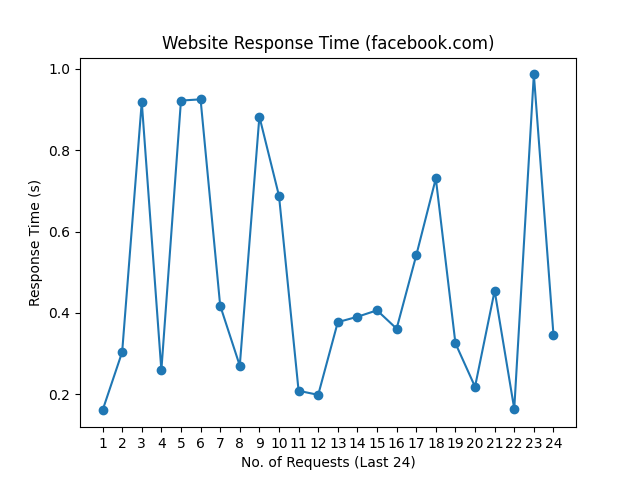
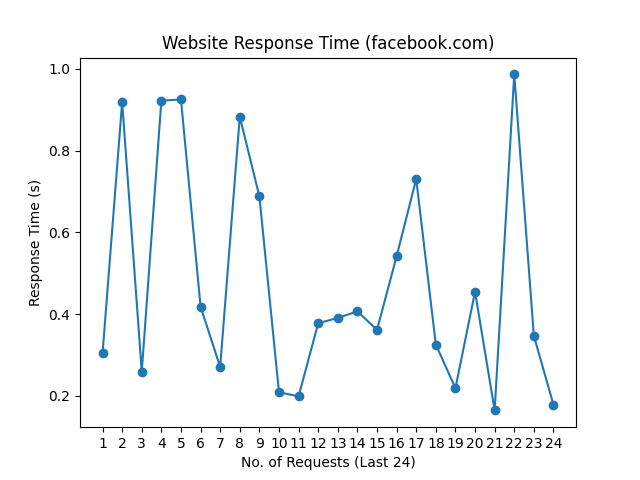
update README.md, history and graph

diff --git a/README.md b/README.md
@@ -1,10 +1,10 @@
 # Web Monitoring
 
-Last Checked: 04/03/2025 08:21
+Last Checked: 05/03/2025 08:21
 
 | Website | Response Time (s) | Status | Avg Uptime (%) |
 |---------|-------------------|--------|----------------|
 | www.thiswebsiteisdown.net | 0 <br> <img src="graph/thiswebsiteisdown.net.png" alt="Graph" width="200" height="200">  | ❌ Down | 0.00 |
-| www.netflix.com | 0.688417 <br> <img src="graph/netflix.com.png" alt="Graph" width="200" height="200">  | ✅ Up | 99.83 |
-| www.google.com | 0.073500 <br> <img src="graph/google.com.png" alt="Graph" width="200" height="200">  | ✅ Up | 100.00 |
-| www.facebook.com | 0.346880 <br> <img src="graph/facebook.com.png" alt="Graph" width="200" height="200">  | ✅ Up | 100.00 |
+| www.netflix.com | 0.644232 <br> <img src="graph/netflix.com.png" alt="Graph" width="200" height="200">  | ✅ Up | 99.83 |
+| www.google.com | 0.081586 <br> <img src="graph/google.com.png" alt="Graph" width="200" height="200">  | ✅ Up | 100.00 |
+| www.facebook.com | 0.178280 <br> <img src="graph/facebook.com.png" alt="Graph" width="200" height="200">  | ✅ Up | 100.00 |
